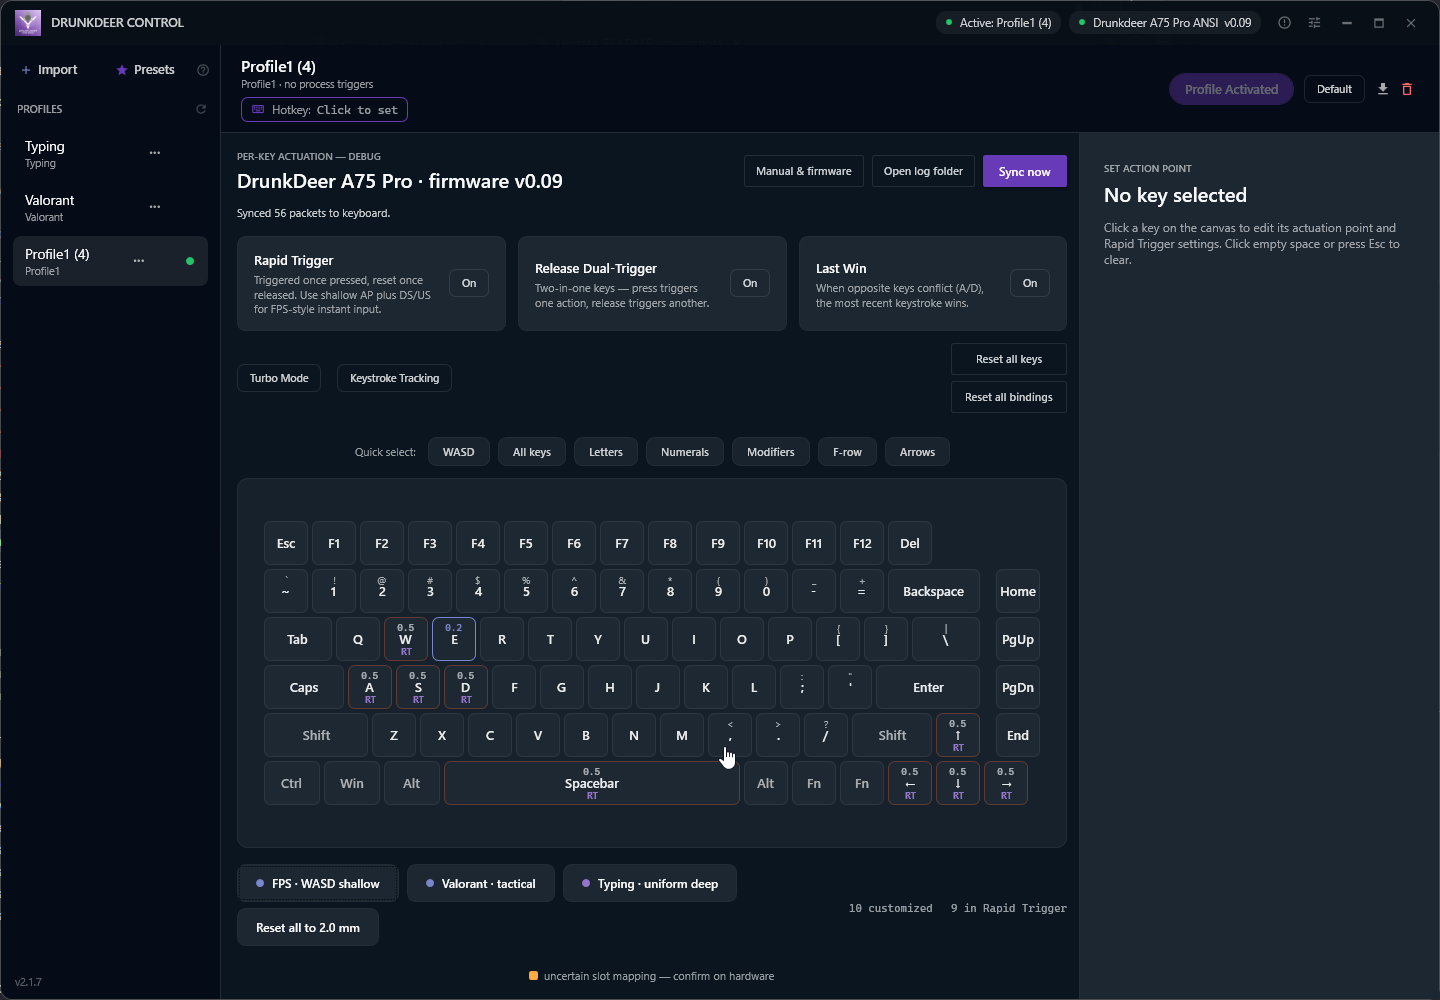
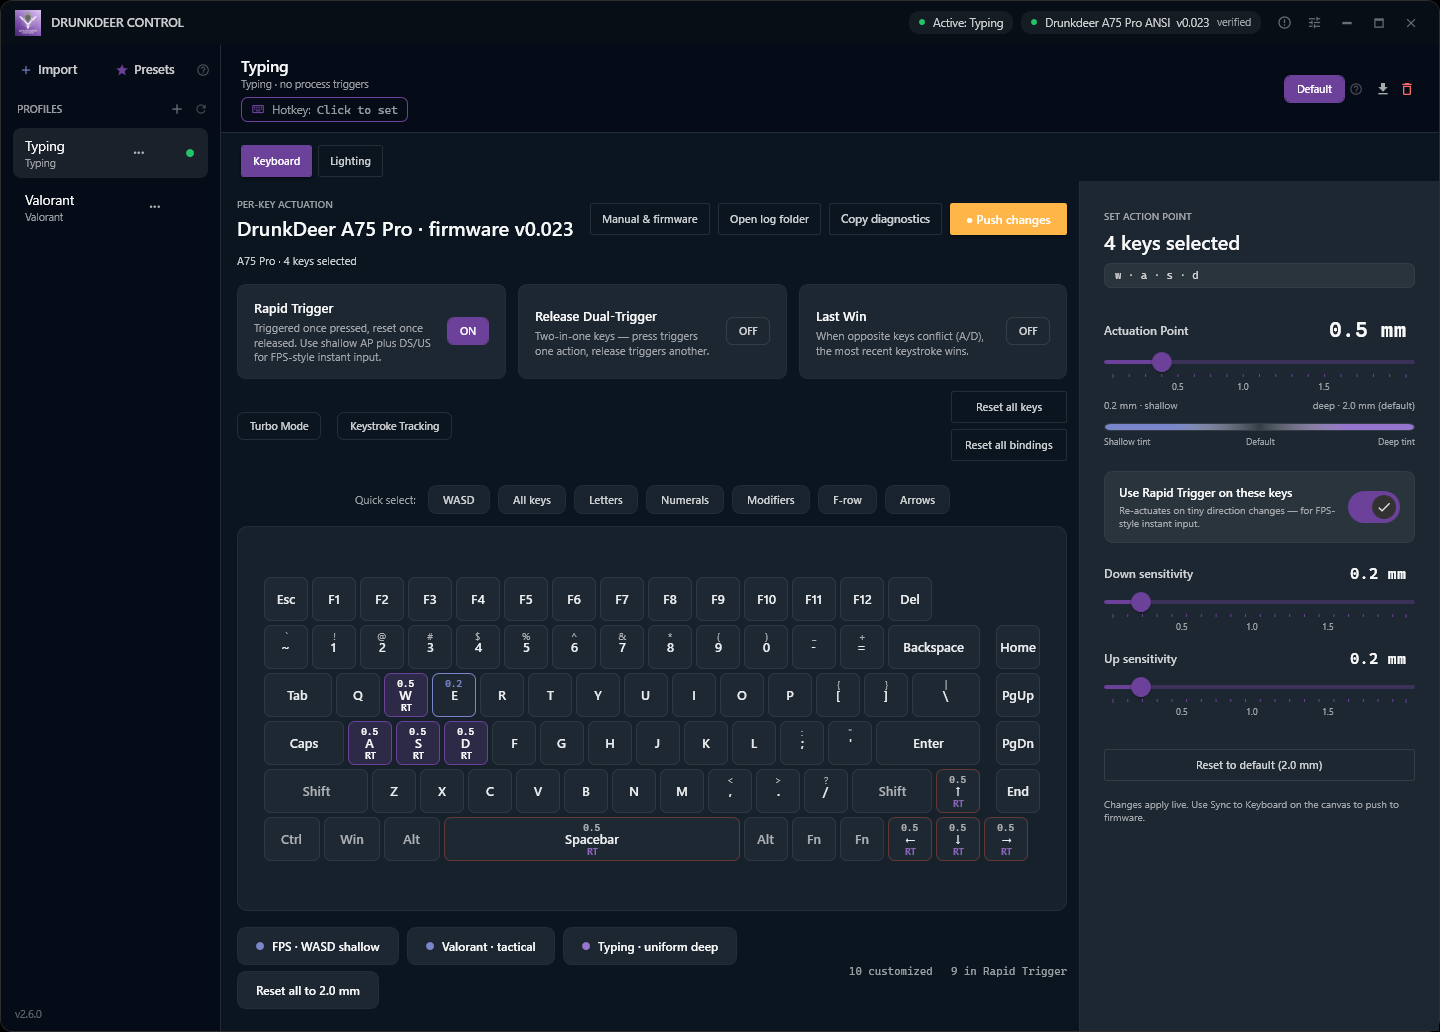
docs(readme): 2.6 redesign — hero, feature tiles, what's new, fresh screenshots
Images made in the Claude Design canvas "DrunkDeer Control README" and
exported at 2x into docs/images/readme/. New app screenshots from the
2.6 build. Claude.md gains the per-release README refresh checklist.

diff --git a/README.md b/README.md
@@ -1,100 +1,90 @@
 <p align="center">
-  <img src="drunkdeer-control-logo.png" alt="DrunkDeer Control" width="120"/>
+  <img src="docs/images/readme/hero.png" alt="DrunkDeer Control — your keyboard, tuned per key" width="100%"/>
 </p>
-
-<h1 align="center">DrunkDeer Control</h1>
-<p align="center">Enhanced profile manager &amp; per-key tuning tool for DrunkDeer mechanical keyboards</p>
 
 <p align="center">
-  <img src="https://img.shields.io/badge/version-2.5.1-22c55e?style=flat-square" />
-  <img src="https://img.shields.io/github/downloads/svumo/DrunkDeer-Control/total?style=flat-square&color=22c55e&label=downloads" />
-  <img src="https://img.shields.io/badge/.NET-8.0-512BD4?style=flat-square" />
-  <img src="https://img.shields.io/badge/Platform-Windows%2010%2F11-0078D4?style=flat-square" />
-  <img src="https://img.shields.io/badge/License-MIT-22c55e?style=flat-square" />
+  <a href="../../releases/latest"><img src="https://img.shields.io/badge/version-2.6.0-6C419A?style=flat-square" alt="Version 2.6.0"/></a>
+  <img src="https://img.shields.io/github/downloads/svumo/DrunkDeer-Control/total?style=flat-square&color=6C419A&label=downloads" alt="Downloads"/>
+  <img src="https://github.com/svumo/DrunkDeer-Control/actions/workflows/ci.yml/badge.svg?branch=main" alt="CI"/>
+  <img src="https://img.shields.io/badge/.NET-10-512BD4?style=flat-square" alt=".NET 10"/>
+  <img src="https://img.shields.io/badge/Windows-10%20%2F%2011-0078D4?style=flat-square" alt="Windows 10 / 11"/>
+  <img src="https://img.shields.io/badge/License-MIT-23C46A?style=flat-square" alt="MIT license"/>
 </p>
 
-> **Note:** Tested on Windows 10/11 with DrunkDeer G65 (firmware v0.48) and A75 Pro (firmware v0.08–0.09). Use at your own risk — I'm not responsible for what happens to your keyboard.
+<p align="center">
+  <a href="../../releases/latest"><b>Download for Windows</b></a> ·
+  <a href="#features">Features</a> ·
+  <a href="#supported-keyboards">Supported keyboards</a> ·
+  <a href="#faq">FAQ</a>
+</p>
 
 ---
 
 ## What is this?
 
-DrunkDeer Control is a free, open-source desktop app for tuning and managing your DrunkDeer keyboard — without the web driver. Adjust **per-key actuation** on a live keyboard canvas, build multiple profiles, and switch between them instantly from the tray, a hotkey, or automatically per-app.
+DrunkDeer Control is a free, open-source Windows app for tuning and managing DrunkDeer keyboards without the web driver. Set **per-key actuation** on a live keyboard canvas, build as many profiles as you like, and switch between them from the tray, a hotkey, or automatically when a game starts.
 
-It auto-detects your keyboard model, runs in the system tray, and keeps your keyboard in sync with whatever profile you've chosen. Profiles are stored locally as JSON and are compatible with the official DrunkDeer web driver export format.
+It detects your keyboard model, runs in the system tray, and keeps the keyboard in sync with the profile you choose. Profiles are stored locally as JSON and import from the official DrunkDeer web driver.
 
-> **New in 2.x:** a full visual keyboard view with drag-select and per-key sliders, one-click presets, key remapping, the full mode strip (Rapid Trigger / Last Win / Release Dual-Trigger / Turbo / Keystroke Tracking), live keystroke-depth visualization, RGB lighting with preset effects, an explicit Sync model, multi-keyboard support, and in-app auto-update.
-
----
-
-## Screenshots
+> Tested on Windows 10/11 with the A75 Pro (firmware 0.023, verified) and G65 (firmware 0.48). Other models are supported through the 19-model layout catalog but are less tested — reports are welcome.
 
 <p align="center">
-  <img src="docs/images/keyboard-performance.png" alt="Keyboard performance view — per-key actuation and heat map" width="780"/>
-</p>
-<p align="center">
-  <img src="docs/images/multi-select.png" alt="Drag-marquee multi-select across the keyboard canvas" width="780"/>
-</p>
-<p align="center">
-  <img src="docs/images/key-remapping.png" alt="Set Action Point drawer with per-key remap and Rapid Trigger" width="780"/>
-</p>
-<p align="center">
-  <img src="docs/images/presets-modestrip.png" alt="Start-from-preset picker and the mode strip" width="780"/>
-</p>
-<p align="center">
-  <img src="docs/images/profiles-triggers.png" alt="Profile sidebar with active-profile indicator" width="780"/>
+  <img src="docs/images/readme/whats-new-2.6.png" alt="What's new in 2.6: no more stuck keys, your setup stays put, profiles you can't lose, verified updates, new and duplicate profiles, easier bug reports" width="100%"/>
 </p>
 
 ---
 
 ## Features
 
-### Keyboard Performance View
-- Full visual keyboard canvas that matches your detected model's layout
-- Click a key, **drag a marquee**, or use Ctrl/Shift to multi-select
-- Per-key **Actuation Point**, **Down-stroke** and **Up-stroke** sliders with millimetre tick labels
-- Heat-map shading + legend so you can see your tuning at a glance
-- Quick-select pills (WASD, arrows, modifiers, etc.) and one-click **presets** (FPS, Valorant, Typing)
-- Live **keystroke-depth bars** on each key while keystroke tracking is on
+<p align="center">
+  <img src="docs/images/readme/features.png" alt="Per-key actuation and Rapid Trigger, Last Win and Release Dual-Trigger, profiles that switch themselves, RGB lighting" width="100%"/>
+</p>
 
-### Mode Strip
-Toggle the keyboard's global modes directly from the app:
-- **Rapid Trigger** · **Release Dual-Trigger** · **Last Win** · **Turbo** · **Keystroke Tracking**
-- Coupling rules are handled for you (e.g. Last Win / RDT force Rapid Trigger on and Turbo off)
+### Keyboard performance view
+- A keyboard canvas that matches your detected model's layout.
+- Click a key, **drag a marquee**, or Ctrl/Shift-click to select several.
+- Per-key **Actuation Point** (0.2–2.0 mm), plus Rapid Trigger **Down** and **Up** sensitivity. Drag the sliders or type exact values.
+- Heat-map shading, an **RT** badge on every Rapid Trigger key, quick-select pills (WASD, arrows, modifiers…) and one-click presets (FPS, Valorant, Typing).
+- Live **keystroke-depth bars** while Keystroke Tracking is on.
 
-### Key Remapping
-Remap any key from the dedicated remap drawer; remaps are saved per profile and pushed to the keyboard on switch.
+<p align="center">
+  <img src="docs/images/keyboard-performance.png" alt="Keyboard performance view with WASD selected and the actuation drawer open" width="820"/>
+</p>
 
-### Profile Management
-- **Works out of the box** — a default profile is created automatically on first launch (no more empty-list dead end)
-- Import profiles exported from the DrunkDeer web driver
-- Rename, delete, and add notes to profiles
-- Profiles persist across reboots and keyboard reconnects
+### Modes
+- **Rapid Trigger** · **Release Dual-Trigger** · **Last Win** · **Turbo** · **Keystroke Tracking**, toggled from the mode strip.
+- **Last Win** pairs (e.g. A ↔ D, W ↔ S): the most recent key wins. Add them with one click.
+- **Release Dual-Trigger** pairs: one key sends one input on press and another on release.
+- Coupling rules are handled for you (Last Win / RDT turn Rapid Trigger on and Turbo off).
 
-### Profile Switching — three ways
+### Key remapping
+Rebind any key from the actuation drawer, including PrtSc, Scroll Lock and Pause. Remaps are saved per profile.
+
+### RGB lighting
+Pick one of the keyboard's built-in effects with brightness, speed and colour, or switch to **Custom** and paint keys one by one.
+
+<p align="center">
+  <img src="docs/images/lighting.png" alt="Lighting tab with the Breath effect, brightness, speed and colour palette" width="820"/>
+</p>
+
+### Profiles
+- Create, duplicate, rename and delete profiles; add notes; import from the web driver.
+- Saves are **atomic** with a rolling backup, and a profile that can't be read is set aside with a notice instead of disappearing.
+- Changes save instantly; **Push changes** sends them to the keyboard.
+
+### Switching profiles — three ways
 | Method | How |
 |---|---|
-| **System tray** | Right-click the deer icon → select a profile |
-| **Global hotkey** | `Ctrl + End` by default (fully customizable) |
-| **Process trigger** | Auto-switch when a specific app takes focus |
+| **System tray** | Right-click the deer icon → pick a profile |
+| **Hotkey** | `Ctrl + End` cycles profiles; any profile can also have its own direct hotkey |
+| **Process trigger** | Switch automatically when a chosen app comes to the foreground |
 
-### Per-Profile Keybinds
-Assign a direct hotkey to any profile for instant one-key switching without cycling.
+> If a profile is marked as **default**, it's applied whenever the foreground app has no profile of its own. For hotkey/tray-only switching, leave no profile as default.
 
-### Process Triggers
-Set one or more apps per profile. When that app comes to the foreground, DrunkDeer Control automatically switches to the associated profile — great for going from desktop to game.
-
-> If a profile is marked as **default**, it's applied whenever a foreground app has no associated profile. For hotkey/tray-only switching, leave no profile set as default.
-
-### Multi-Keyboard Support
-Auto-detects the connected model from its firmware type-code (falling back to USB PID) and maps profiles onto that keyboard's layout. The profile list is shared across keyboards — a profile is a "feel" you carry between boards.
-
-### Auto-Update
-The app checks GitHub for new releases and shows an in-app banner. Click **Install** and it swaps itself in place — no reinstall, no admin rights.
-
-### System Tray & Startup
-- Hover the tray icon to see the active profile; double-click to restore the window
-- Optional **Start with Windows** toggle and `--start-minimized` flag
+### Built to stay out of the way
+- Runs in the tray; optional **Start with Windows** and `--start-minimized`.
+- **In-app updates**: click Install and it swaps itself in place, after checking the download's SHA-256. No installer, no admin rights.
+- **Copy diagnostics** puts your model, raw firmware, and last sync summary on the clipboard for bug reports.
 
 ---
 
@@ -102,39 +92,40 @@ The app checks GitHub for new releases and shows an in-app banner. Click **Insta
 
 | Keyboard | Firmware | Status |
 |---|---|---|
-| DrunkDeer A75 Pro | v0.08–0.09 | Fully tested |
-| DrunkDeer G65 | v0.48 | Fully tested |
-| A75 / A75 Ultra and other VID `0x352D` models | — | Supported (19-model layout catalog) |
+| DrunkDeer A75 Pro | 0.023 (`0x0017`) | Verified |
+| DrunkDeer G65 | 0.48 | Tested |
+| A75 / A75 Ultra / A75 Master and other VID `0x352D` models | — | Supported (19-model layout catalog). On A75 Ultra and Master, remap and key-pair writes ask for confirmation first. |
 
 Supported PIDs: `0x2382`, `0x2383`, `0x2384`, `0x2386`, `0x2387`, `0x024f`, `0x2391`, `0x2a08`
 
-> If your keyboard isn't detected, open an issue with the USB PID and model — see the FAQ below.
+> Keyboard not detected? Open an issue with the [keyboard support form](../../issues/new/choose) — it asks for the PID, firmware and model.
 
 ---
 
 ## Installation
 
-### Option A — Download release (recommended)
-1. Download the latest `.exe` from [Releases](../../releases/latest)
+### Option A — Download (recommended)
+1. Download `DrunkDeer-Control.exe` from [Releases](../../releases/latest). A `.sha256` file is published next to it if you want to check the download.
 2. Run it — no installer, no admin rights. On first launch it installs itself to a managed location and keeps itself updated from there.
 
 ### Option B — Build from source
-**Requirements:** .NET 8.0 SDK, Windows 10/11
+**Requirements:** .NET 10 SDK (pinned by `global.json`), Windows 10/11
 
 ```bash
 git clone https://github.com/svumo/DrunkDeer-Control.git
 cd DrunkDeer-Control
 dotnet build DrunkDeerDriver.sln
-dotnet run --project WpfApp/WpfApp.csproj
+dotnet test tests/Driver.Tests
+dotnet run --project WpfApp/WpfApp.csproj -- --no-install-redirect
 ```
 
 ---
 
 ## Importing Profiles
 
-1. Open the [DrunkDeer web driver](https://en.drunkdeer.com/pages/driver)
-2. Configure your profile and export it as a JSON file
-3. In DrunkDeer Control, click **Import** and select the file
+1. Open the [DrunkDeer web driver](https://en.drunkdeer.com/pages/driver).
+2. Configure your profile and export it as a JSON file.
+3. In DrunkDeer Control, click **Import** and select the file.
 
 See [Importing-Profiles.md](Importing-Profiles.md) for a step-by-step walkthrough.
 
@@ -143,68 +134,76 @@ See [Importing-Profiles.md](Importing-Profiles.md) for a step-by-step walkthroug
 ## FAQ
 
 **Windows Defender flags the exe as a threat**
-False positive common to unsigned WPF apps. The source is fully open — audit it and build from source. If you know a fix, please open an issue.
+A false positive common to unsigned apps. The source is fully open — audit it, check the published SHA-256, or build from source.
 
 **The app doesn't detect my keyboard**
-Check Device Manager for a `VID_352D` device listed as "HID-compliant vendor-defined device". If the PID isn't in the supported list, open an issue with the PID and keyboard model.
+Check Device Manager for a `VID_352D` device listed as "HID-compliant vendor-defined device". If the PID isn't in the supported list, open an issue with the keyboard support form.
 
-**I just installed it and nothing I change applies to the keyboard**
-Fixed in **v2.1.2** — fresh installs now auto-create a default profile. Update to the latest release.
+**A key got stuck after changing Last Win settings**
+Fixed in 2.6: the key-pair table is only rewritten when your pairs actually change, and the app asks you to keep your hands off the keyboard for the second it takes. If it still happens, unplug and replug the keyboard, then use **Copy diagnostics** and open an issue.
 
 **Profile switching via hotkey doesn't work**
-Make sure at least two profiles are marked as **Quick Switch** in their settings. The hotkey cycles only through quick-switch-enabled profiles.
+Make sure at least two profiles are marked as **Quick Switch** in their settings. The hotkey cycles only through quick-switch profiles.
 
 **Process trigger doesn't activate**
-A default profile overrides process triggers. Un-set the default profile if you want process-based switching to work reliably.
+A default profile overrides process triggers. Un-set the default profile if you want app-based switching.
 
 **Reporting an issue — what should I attach?**
-Attach `%APPDATA%\DrunkDeer Control\debug.log` (and `debug.log.old` if present). It contains the detected keyboard's model, firmware version, resolved wire-format dialect, and the per-sync packet summary — enough to diagnose most "works on A75 Pro, doesn't work on my X" reports. For wire-level detail, re-run with `--verbose-log` to capture packet hex dumps in the same log.
+Click **Copy diagnostics** in the app and paste it into the [bug report form](../../issues/new/choose). If asked for more, attach `%APPDATA%\DrunkDeer Control\debug.log` (and `debug.log.old` if present).
 
 ---
 
 ## System Requirements
 
 - Windows 10 or 11 (64-bit)
-- .NET 8.0 Runtime (bundled in the single-file release exe)
+- .NET 10 runtime (bundled in the single-file release exe)
 - No administrator rights required
 
 ---
 
 ## How it works
 
-DrunkDeer keyboards don't store multiple profiles internally — only the currently active one lives on the keyboard. This app writes the selected profile over USB HID each time you switch, keeping the keyboard in sync with whichever profile you've chosen.
+DrunkDeer keyboards keep only the active profile on the keyboard itself. This app stores your profiles and writes the chosen one over USB HID when you switch profile or press **Push changes**.
 
-The freshly-created default profile is **not** pushed on first launch, so it won't overwrite whatever you've already configured on the keyboard — your first edit or profile switch is what writes to it. If you change settings in the official web driver while this app is running, it won't know — reimport to pick those up.
+Opening the app doesn't write anything — the keyboard stays exactly as you left it until you switch or push. If you change settings in the official web driver while this app is running, it won't know; re-import to pick those up.
 
 ---
 
 ## Privacy & Network calls
 
-DrunkDeer Control collects no usage telemetry. There is no daily ping, no opt-in dialog, no opt-out toggle, no anonymous device ID, nothing being counted. The earlier heartbeat-style telemetry was removed once it became clear that GitHub release download counts answer the "is anyone using this?" question well enough without phoning home.
+DrunkDeer Control collects no usage telemetry: no ping, no device ID, nothing counted.
 
-The app makes exactly two outbound network calls, both unauthenticated `GET`s with no payload:
+It makes exactly two outbound calls, both unauthenticated `GET`s with no payload:
 
-1. **GitHub releases API** — to check whether a newer release is available and show the in-app update banner. Hits `api.github.com/repos/svumo/DrunkDeer-Control/releases/latest`. See [`WpfApp/UpdateChecker.cs`](WpfApp/UpdateChecker.cs).
-2. **DrunkDeer firmware-version channel** — to check whether your connected keyboard's firmware is older than the latest version DrunkDeer publishes. Hits `drunkdeer-telemetry.svumo.workers.dev/firmware`, which is a Cloudflare Worker in this repo at [`telemetry-worker/`](telemetry-worker/) (folder name kept for URL stability — the contents are now firmware-only, no stats collection). See [`WpfApp/FirmwareUpdateChecker.cs`](WpfApp/FirmwareUpdateChecker.cs).
+1. **GitHub releases API** — to check for a newer release and show the update banner (`api.github.com/repos/svumo/DrunkDeer-Control/releases/latest`). See [`WpfApp/UpdateChecker.cs`](WpfApp/UpdateChecker.cs). Updates are downloaded from GitHub only and installed only if their SHA-256 matches.
+2. **DrunkDeer firmware-version channel** — to check whether your keyboard's firmware is older than the latest DrunkDeer publishes (`drunkdeer-telemetry.svumo.workers.dev/firmware`, a Cloudflare Worker in [`telemetry-worker/`](telemetry-worker/); the folder name is kept for URL stability). See [`WpfApp/FirmwareUpdateChecker.cs`](WpfApp/FirmwareUpdateChecker.cs).
 
-Neither call sends any data about you, your machine, or your keyboard configuration. The firmware Worker has `[observability] enabled = false` in [`telemetry-worker/wrangler.toml`](telemetry-worker/wrangler.toml) and never reads `cf-connecting-ip`, so even the maintainer cannot see who is checking firmware versions.
+Neither call sends anything about you, your machine, or your keyboard configuration. The Worker has `[observability] enabled = false` in [`telemetry-worker/wrangler.toml`](telemetry-worker/wrangler.toml) and never reads `cf-connecting-ip`.
 
 ---
 
 ## Changelog
 
-- **v2.5.1** — G60 / G65: fixed the Esc key typing backtick (`` ` ``) instead of Escape (correct default keymap for slot 21 on F-row-less boards)
-- **v2.5.0** — First non-beta 2.x release: Last Win (snap-tap) fixed on gen-1, RGB lighting tab with preset effects, explicit Sync model (changes save to disk, "Push changes" commits) with per-profile Discard, hotkeys now require a modifier, bundled Typing + Valorant presets on first run
-- **v2.4.0** — Firmware-aware wire dialect dispatch (no more silent 2 mm cap on older firmware), Release Dual-Trigger pair fix across profile switches, firmware-too-old upgrade prompt
-- **v2.3.0** — Removed all usage telemetry; the app now makes only two passive GETs (GitHub releases + firmware-version check)
-- **v2.2.0** — Actuation-point wire-scale fix (`byte = mm × 100`; values were 10× too small), multi-firmware capability tiers (Verified / Beta / Unknown header pill), sync over-send pruning
-- **v2.1.2** — Fresh installs auto-create a default profile (the app is usable immediately instead of silently discarding every change)
+- **v2.6.0** — Safer syncs and a sturdier app:
+  - **No more stuck keys:** the Last Win / RDT pair table is only rewritten when pairs change, the app waits for keys to be released, and a hands-off overlay shows during the rewrite.
+  - **Nothing written on launch** (#6), and Last Win no longer adds pairs by itself — use **Add A/D + W/S**.
+  - **A75 Ultra / Master:** remap and pair writes ask for confirmation first (#6).
+  - **Profiles:** atomic saves with a rolling backup, a notice for unreadable files, New and Duplicate.
+  - **Updates:** SHA-256-verified downloads with timeouts; now on **.NET 10**.
+  - **Other fixes:** tray Exit always quits (#7); only the real gen-2 A75 Pro PID is treated as one (#2); RDT one-way pairs explained (#9).
+  - **Also new:** bind PrtSc / Scroll Lock / Pause (#8), **Copy diagnostics** and issue forms, type exact mm values, clearer Rapid Trigger hints.
+- **v2.5.1** — G60 / G65: fixed the Esc key typing backtick (`` ` ``) instead of Escape
+- **v2.5.0** — First non-beta 2.x release: Last Win fixed on gen-1, RGB lighting tab with preset effects, explicit Sync model with per-profile Discard, hotkeys require a modifier, bundled Typing + Valorant presets
+- **v2.4.0** — Firmware-aware wire dialect dispatch, Release Dual-Trigger pair fix across profile switches, firmware-too-old upgrade prompt
+- **v2.3.0** — Removed all usage telemetry; only two passive GETs remain
+- **v2.2.0** — Actuation-point wire-scale fix (`byte = mm × 100`), multi-firmware capability tiers (Verified / Beta / Unknown), sync over-send pruning
+- **v2.1.2** — Fresh installs auto-create a default profile
 - **v2.1.1** — Robustness fixes
-- **v2.1.0** — Multi-keyboard support (19-model layout catalog), full keyboard performance view, live keystroke-tracking depth bars, performance pass
-- **v2.0** — Keyboard view rebuild: visual keyboard canvas, drag-marquee multi-select, per-key Actuation/Down-stroke/Up-stroke drawer, presets, key-remap drawer, mode strip
-- **v1.3–v1.6** — In-app auto-update (in-process swap), canonical install + redirect, firmware-version telemetry & update banner, single-instance handling
-- **v1.1–v1.2** — Dashboard UI redesign (sidebar + detail panel), custom global hotkey, per-profile keybinds, profile notes, inline rename
-- **v1.0** — DrunkDeer Control rebrand: A75 Pro support, .NET 8 compatibility, modernized JSON import
+- **v2.1.0** — Multi-keyboard support (19-model layout catalog), keyboard performance view, keystroke-depth bars
+- **v2.0** — Keyboard view rebuild: visual canvas, drag-marquee multi-select, per-key drawer, presets, remapping, mode strip
+- **v1.3–v1.6** — In-app auto-update, canonical install + redirect, firmware update banner, single-instance handling
+- **v1.1–v1.2** — Dashboard redesign, global hotkey, per-profile keybinds, notes, inline rename
+- **v1.0** — DrunkDeer Control rebrand: A75 Pro support, modernized JSON import
 - **v0.2** — Release double trigger, last win, key remapping
 - **v0.1** — Initial release: profiles and rapid trigger
 

diff --git a/Claude.md b/Claude.md
@@ -373,6 +373,24 @@ already have the new build will still see "Update available."
    `releases/latest/download/DrunkDeer-Control.exe`. Don't change it.
 6. `gh release create vX.Y.Z <path-to-exe> --title "..." --notes "..."`.
 
+#### README refresh — required for every release
+Every new version ships with an updated README, not just a version bump:
+
+1. **"What's new" image**: add/update the `WhatsNew` artboard in the Claude
+   Design canvas "DrunkDeer Control README"
+   (https://claude.ai/artifact/7GtNdehcdP2cnrxjzbT8M8) for the new version,
+   plus the version pill on the hero (`Main`) artboard.
+2. **Export PNGs** at 2× (2560 px wide) into `docs/images/readme/`
+   (`hero.png`, `features.png`, `whats-new-X.Y.png`, `social.png`).
+3. **Retake app screenshots** in `docs/images/` from the release build when
+   the UI changed.
+4. **README.md**: version badge, "What's new" image link, changelog entry,
+   and any changed feature / install / requirements text.
+5. Update the GitHub social preview (repo Settings → Social preview) with
+   `social.png` if it changed.
+
+README and docs/ changes are left uncommitted for the owner to commit.
+
 Update logic lives in [WpfApp/UpdateChecker.cs](WpfApp/UpdateChecker.cs)
 and is wired in [MainWindow.xaml.cs](WpfApp/MainWindow.xaml.cs) inside
 `OnSourceInitialized`.
